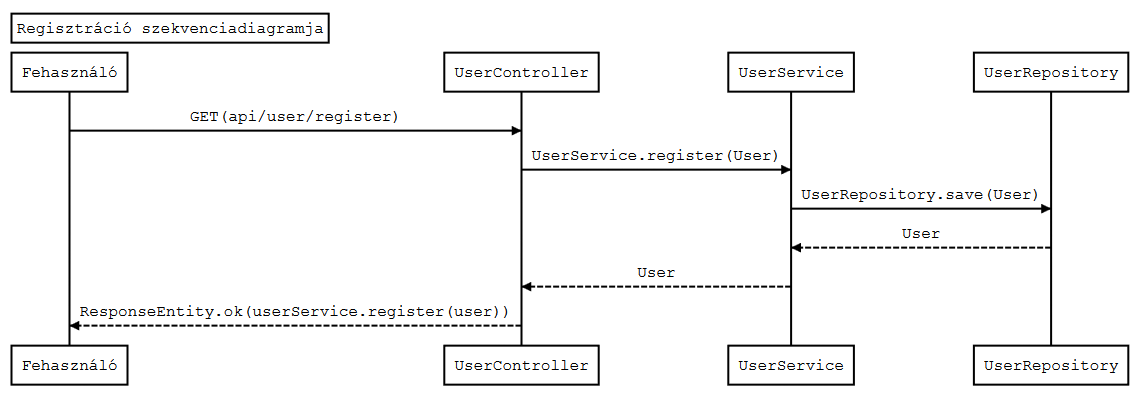
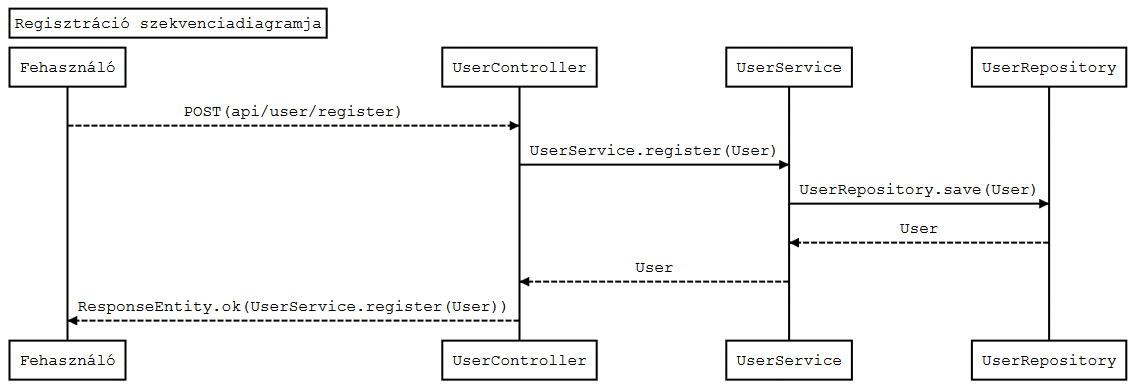
Update README.md and sequence diagram

Changed region(s): [[0.0, 0.0, 1.0, 0.9871]]

diff --git a/README.md b/README.md
@@ -169,56 +169,44 @@ A projekt célja egy receptek feltöltésére használható webes alkalmazás el
 
 ### 2.4 Végpontok
 
-- `GET/`
-  - `/`: Főoldal
-  - `/api/user/`
-    - `/`: Saját felhasználói fiók elérése
-	- `/login`: Bejelentkezés
-	- `/logout`: Kijelentkezés
-  - `/api/recipes/`
-    - `/`: Az összes recept lekérdezése
-	- `/my`: Saját receptek lekérdezése
-	- `/{id}`: Egy recept lekérdezése
-  - `/api/category/`
-    - `/`: Az összes kategória lekérdezése
-	- `/{id}`: Egy kategória lekérdezése
-	- `/recipes/{id}`: Egy kategória alapján az összes recept lekérdezése
-  - `/api/comments/`
-    - `/`: Az összes hozzászólás lekérdezése
-	- `/my`: Az összes saját hozzászólás lekérdezése
-	- `/{id}`: Egy hozzászólás lekérdezése
-- `POST/`
-  - `/api/user/`
-    - `/register`: Regisztráció
-  - `/api/recipes/`
-    - `/`: Recept létrehozása
-	- `/favourites/{id}`: Recept hozzáadása a kedvencek közé
-  - `/api/category/`
-    - `/`: Kategória létrehozása
-  - `/api/comments/`
-    - `/`: Hozzászólás létrehozása
-- `PUT/`
-  - `/api/recipes/`
-    - `/{id}`: Recept módosítása
-  - `/api/category/`
-    - `/{id}`: Kategória módosítása
-  - `/api/comments/`
-    - `/{id}`: Hozzászólás módosítása
-- `DELETE/`
-  - `/api/user/`
-    - `/{id}`: Felhasználó törlése
-  - `/api/recipes/`
-    - `/{id}`: Recept törlése
-	- `/favourites/{id}`: Recept törlése a kedvencek közül
-  - `/api/category/`
-    - `/{id}`: Kategória törlése
-  - `/api/comments/`
-    - `/{id}`: Hozzászólás törlése
+#### **user**
 
-#### Szekvenciadiagram
+- `GET /api/user` : Saját felhasználói fiók elérése
+- `GET /api/user/login` : Bejelentkezés
+- `GET /api/user/logout`: Kijelentkezés
+- `POST /api/user/register` : Regisztráció
+- `DELETE /api/user/{id}` : Felhasználó törlése
+
+#### **Recipe**
+- `GET /api/recipes` : Az összes recept lekérdezése
+- `GET /api/recipes/my` : Saját receptek lekérdezése
+- `GET /api/recipes/{id}` : Egy recept lekérdezése
+- `POST /api/recipes` : Recept létrehozása
+- `POST /api/recipes/favourites/{id}` : Recept hozzáadása a kedvencek közé
+- `PUT /api/recipes/{id}` : Recept módosítása
+- `DELETE /api/recipes/{id}` : Recept törlése
+- `DELETE /api/recipes/favourites/{id}` : Recept törlése a kedvencek közül
+
+#### **Category**
+
+- `GET /api/category` : Az összes kategória lekérdezése
+- `GET /api/category/{id}` : Egy kategória lekérdezése
+- `GET /api/category/recipes/{id}` : Egy kategória alapján az összes recept lekérdezése
+- `POST /api/category` : Kategória létrehozása
+- `PUT /api/category/{id}` : Kategória módosítása
+- `DELETE /api/category/{id}` : Kategória törlése
+
+#### **Comment**
+
+- `GET /api/comments` : Az összes hozzászólás lekérdezése
+- `GET /api/comments/my` : Az összes saját hozzászólás lekérdezése
+- `GET /api/comments/{id}` : Egy hozzászólás lekérdezése
+- `POST /api/comments` : Hozzászólás létrehozása
+- `PUT /api/comments/{id}` : Hozzászólás módosítása
+- `DELETE /api/comments/{id}` : Hozzászólás törlése
+
+#### **Szekvenciadiagram**
+
+A szekvenciadiagram egy felhasználó regisztrálását illusztrálja a `POST /api/user/register` végponton keresztül:
 
 ![Egy regisztráció szekvenciadiagramja](docs/szekvenciadiagram.png)
-
-### 2.5 Fontosabb specifikumok bemutatása (ha van ilyen)
-
-#### -
